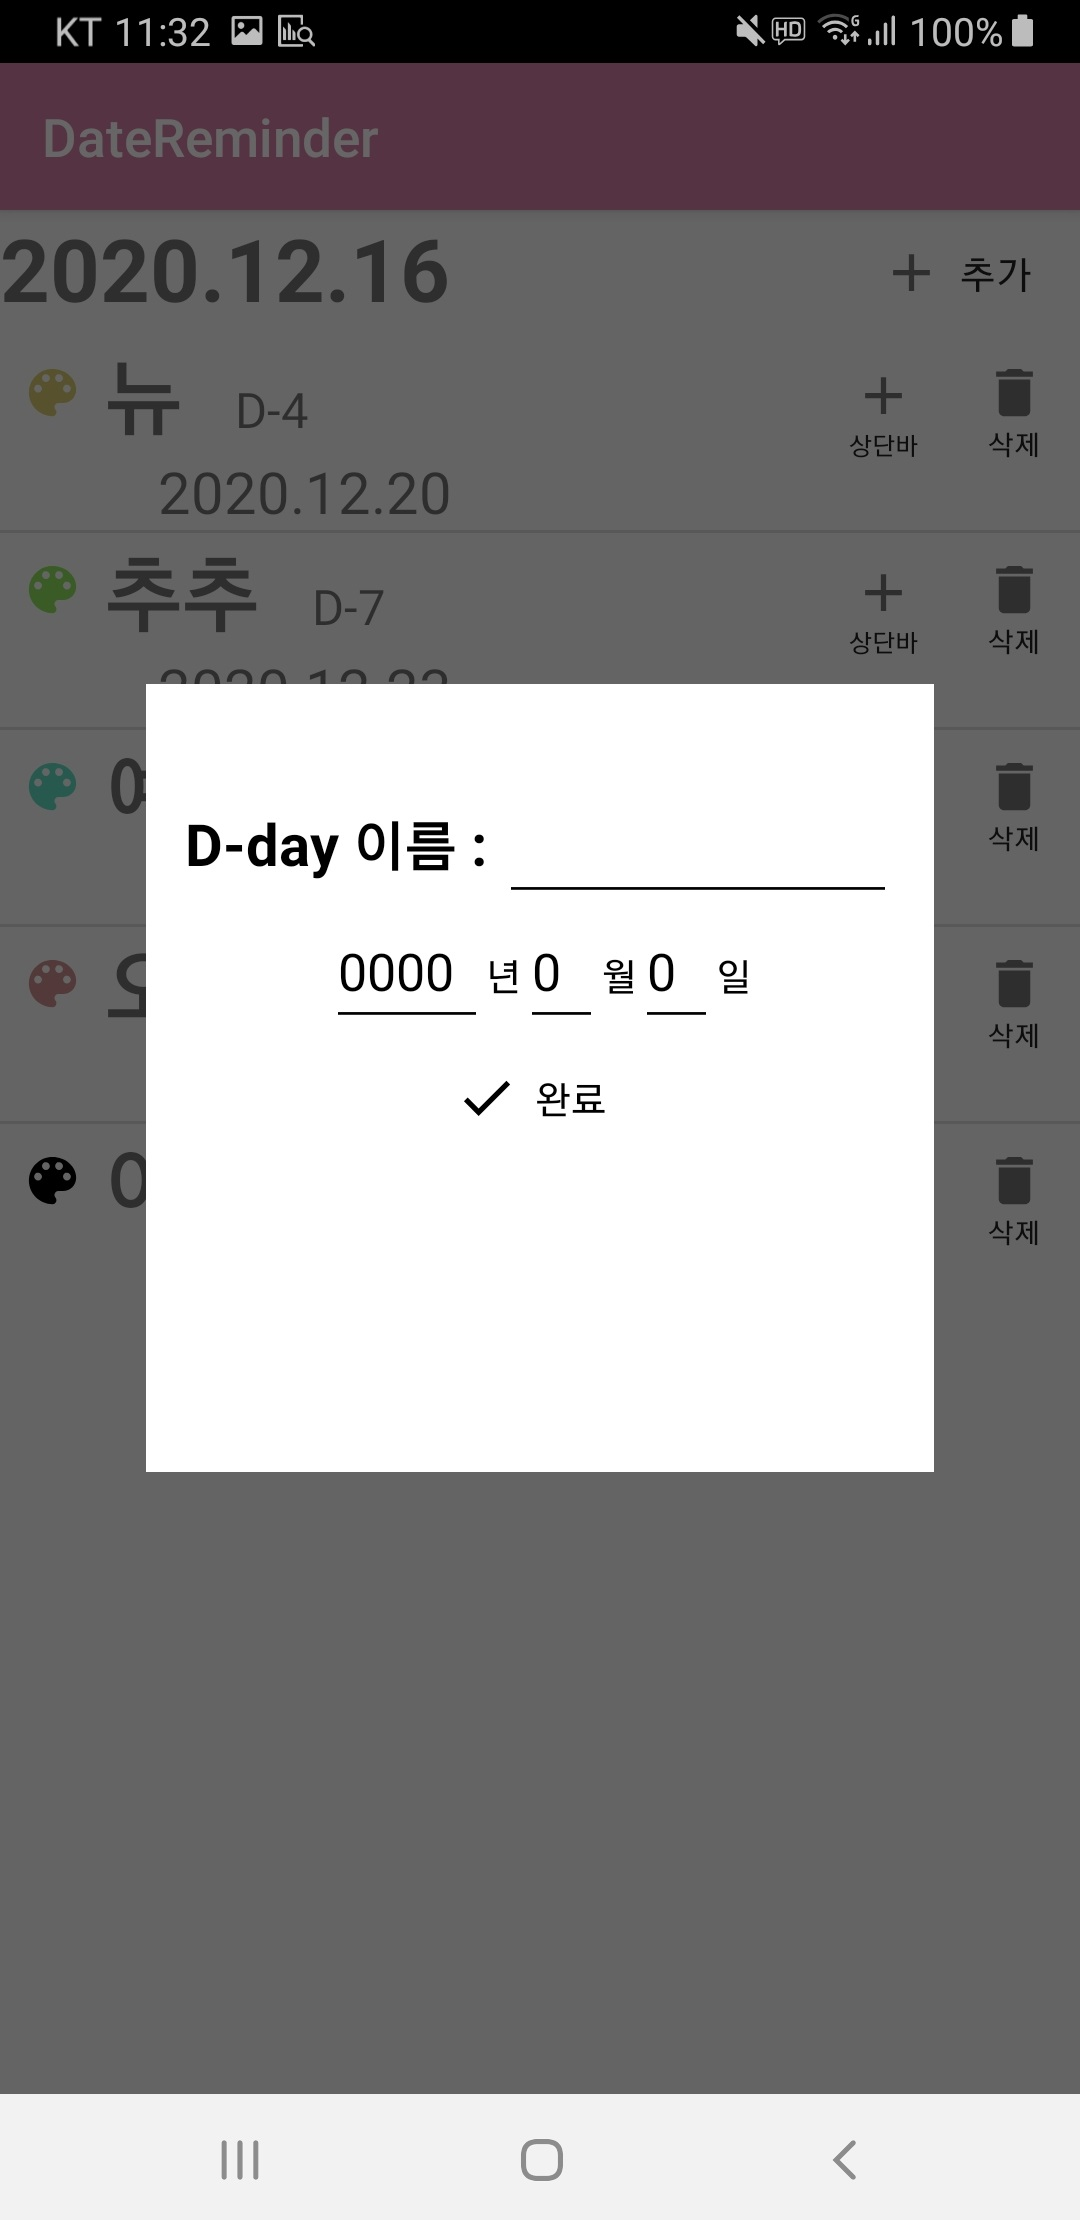
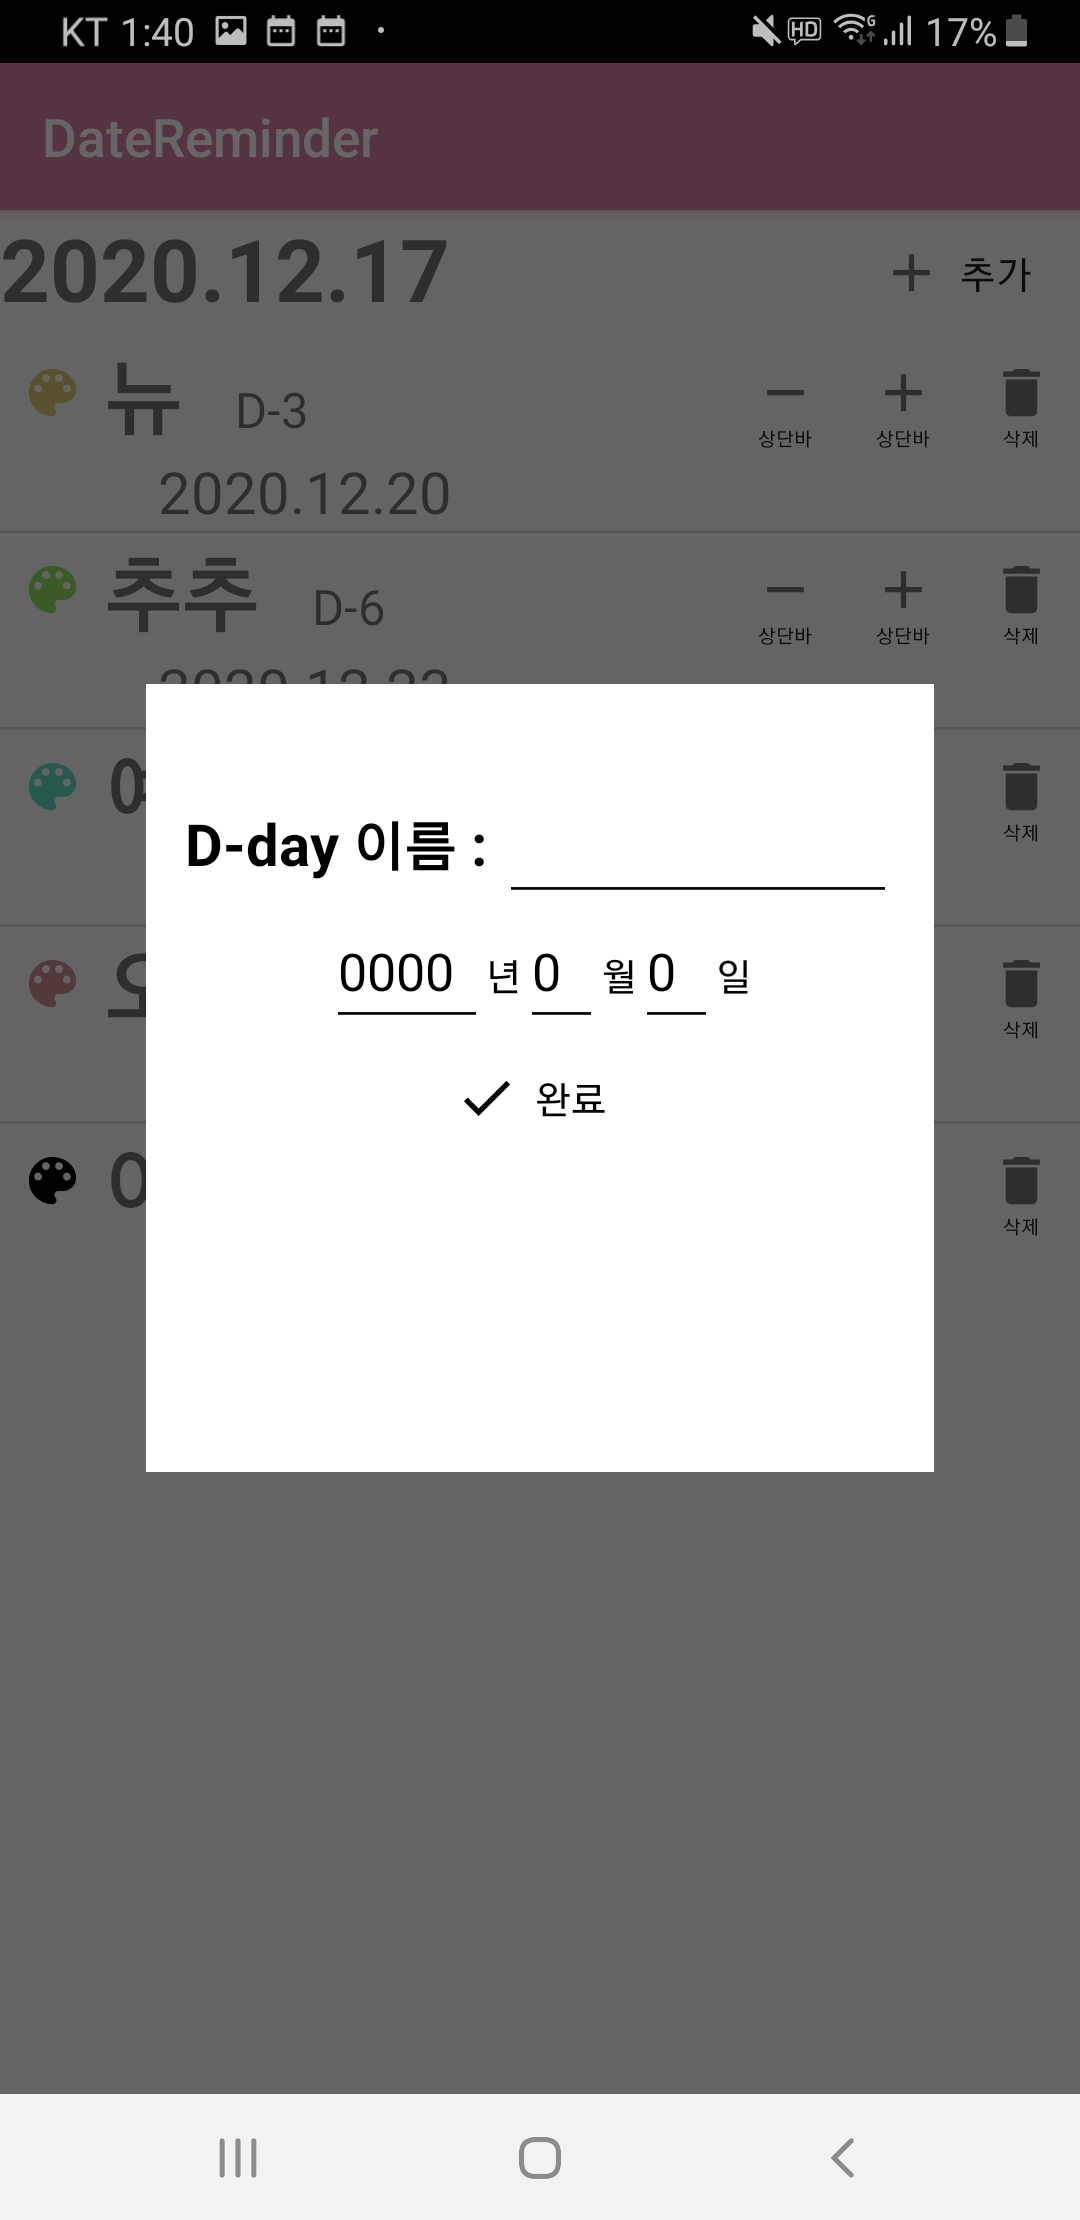
notification remove button

diff --git a/app/src/main/java/com/example/datealarm/MainActivity.java b/app/src/main/java/com/example/datealarm/MainActivity.java
@@ -96,13 +96,18 @@ public class MainActivity extends AppCompatActivity implements myDBAdapter.ListB
                 int color = selected.getColor();
 
 
-                createNotification(title, date, color);
+                createNotification(title, date, color, position);
 
                 break;
             case R.id.list_icon:
                 Toast.makeText(getApplicationContext(), "색상 변경",Toast.LENGTH_SHORT).show();
                 Intent intent = new Intent(getApplicationContext(), PickColorActivity.class);
                 startActivityForResult(intent, 0);
+                break;
+
+            case R.id.list_notifyRemove:
+                Toast.makeText(getApplicationContext(), "notification 제거",Toast.LENGTH_SHORT).show();
+                removeNotification(position);
                 break;
         }
         update_list();
@@ -120,7 +125,7 @@ public class MainActivity extends AppCompatActivity implements myDBAdapter.ListB
     }
 
 
-    private void createNotification(String title, String date, int color) {
+    private void createNotification(String title, String date, int color, int _id) {
 
         String D_dayText = "";
         Date now = new Date(System.currentTimeMillis());
@@ -149,7 +154,7 @@ public class MainActivity extends AppCompatActivity implements myDBAdapter.ListB
         builder.setColor(color);
         builder.setContentTitle(title + " " + D_dayText);
         builder.setAutoCancel(true);
-
+        builder.setOngoing(true);
 
 
         NotificationManager notificationManager = (NotificationManager) this.getSystemService(Context.NOTIFICATION_SERVICE);
@@ -157,9 +162,16 @@ public class MainActivity extends AppCompatActivity implements myDBAdapter.ListB
             notificationManager.createNotificationChannel(new NotificationChannel("default", "기본 채널", NotificationManager.IMPORTANCE_DEFAULT));
         }
 
-        int this_channel = (int)(System.currentTimeMillis()/1000);
+        notificationManager.notify(_id, builder.build());
+    }
 
-        notificationManager.notify(this_channel, builder.build());
+    private void removeNotification(int _id){
+        NotificationManager notificationManager = (NotificationManager) this.getSystemService(Context.NOTIFICATION_SERVICE);
+        if (Build.VERSION.SDK_INT >= Build.VERSION_CODES.O) {
+            notificationManager.createNotificationChannel(new NotificationChannel("default", "기본 채널", NotificationManager.IMPORTANCE_DEFAULT));
+        }
+
+        notificationManager.cancel(_id);
     }
 
 }

diff --git a/app/src/main/java/com/example/datealarm/myDBAdapter.java b/app/src/main/java/com/example/datealarm/myDBAdapter.java
@@ -79,6 +79,7 @@ public class myDBAdapter extends ArrayAdapter implements View.OnClickListener {
         Button btn = convertView.findViewById(R.id.list_delete);
         Button btn_color = convertView.findViewById(R.id.list_icon);
         Button btn_alarm = convertView.findViewById(R.id.list_alarm);
+        Button btn_notifyRemove = convertView.findViewById(R.id.list_notifyRemove);
 
         for (Drawable drawable : btn_color.getCompoundDrawables()) {
             if (drawable != null) {
@@ -95,6 +96,9 @@ public class myDBAdapter extends ArrayAdapter implements View.OnClickListener {
 
         btn_alarm.setTag(position);
         btn_alarm.setOnClickListener(this);
+
+        btn_notifyRemove.setTag(position);
+        btn_notifyRemove.setOnClickListener(this);
 
 
         return convertView;
